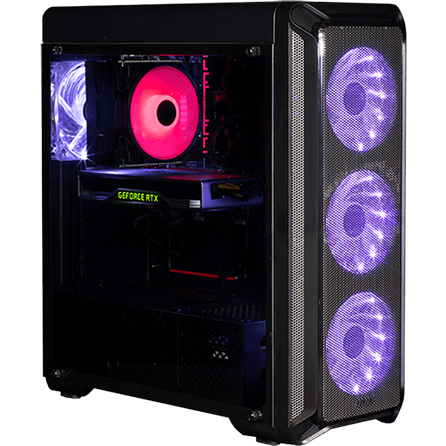
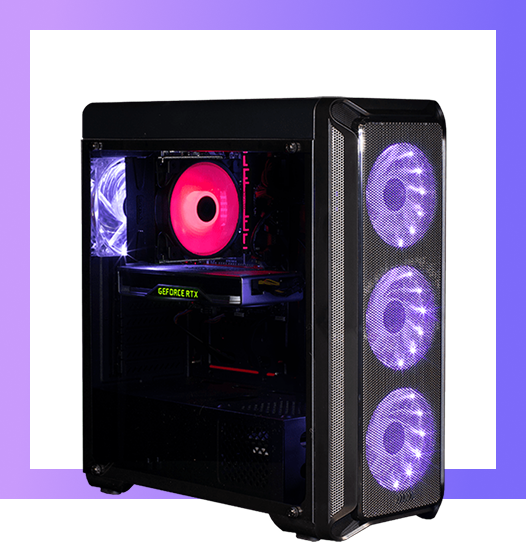
разметили вторую и третью секции

diff --git a/index.html b/index.html
@@ -56,6 +56,79 @@
           />
         </div>
       </section>
+
+      <section class="work">
+        <div class="container">
+          <div class="work__wrapper">
+            <div class="work__img">
+              <img src="img/image.png" alt="compic" />
+            </div>
+            <div class="work__description">
+              <h2 class="work__title title">Чем мы занимаемся</h2>
+              <p class="work__text">
+                Помогаем сэкономить до 40% стоимости игрового компьютера без
+                потери производительности. Подбираем мощные детали компьютера,
+                заказываем у своих поставщиков или напрямую у производителей,
+                чтобы сэкономить ваши деньги. Собираем мощный компьютер, на
+                котором можно играть в любые современные игры и заниматься
+                работой.
+              </p>
+            </div>
+          </div>
+        </div>
+      </section>
+
+      <section class="process">
+        <div class="container">
+          <div class="process__wrapper">
+            <div class="proccess__header">
+              <img
+                class="process__logo"
+                src="img/process.svg"
+                alt="process logo"
+              />
+              <h2 class="process__title title">Процесс работы</h2>
+            </div>
+            <p class="process__description">
+              Подробно рассказываем о том, как происходит сборка, от заявки до
+              выдачи вашего заказа
+            </p>
+            <div class="process__columns">
+              <div class="process__item">
+                <h3 class="process__work">Заявка</h3>
+                <p class="process__work-text">
+                  Мы получаем вашу заявку, связываемся с вами для уточнения
+                  деталей, чтобы понять ваши ожидания от будущего компьютера.
+                </p>
+              </div>
+              <div class="process__item">
+                <h3 class="process__work">Подбор</h3>
+                <p class="process__work-text">
+                  После оплаты подбираем комплектующие, которые дадут
+                  максимальную производительность. Заказываем их напрямую у
+                  поставщиков.
+                </p>
+              </div>
+              <div class="process__item">
+                <h3 class="process__work">Сборка</h3>
+                <p class="process__work-text">
+                  Собираем компьютер, проводим стартовую диагностику,
+                  устанавливаем операционную систему и необходимые драйверы для
+                  работы.
+                </p>
+              </div>
+              <div class="process__item">
+                <h3 class="process__work">Выдача</h3>
+                <p class="process__work-text">
+                  Отдаём компьютер вам в назначенный срок, проводим вместе
+                  тестирование, подписываем документы о выполнении работы и
+                  гарантии.
+                </p>
+              </div>
+            </div>
+          </div>
+        </div>
+      </section>
     </main>
   </body>
 </html>

diff --git a/css/style.css b/css/style.css
@@ -26,6 +26,7 @@ html,
 body {
   color: #ffffff;
   font-size: 62.5%;
+  font-family: "Roboto", sans-serif;
   font-weight: normal;
   background: #000000;
   background: linear-gradient(
@@ -73,7 +74,14 @@ h6 {
   border-radius: 5rem;
   padding: 1rem 3rem;
   font-size: 1.6rem;
+  line-height: 150%;
   color: #ffffff;
+}
+
+.title {
+  font-size: 4.8rem;
+  line-height: 140%;
+  font-weight: 700;
 }
 
 .header {
@@ -103,6 +111,7 @@ h6 {
 
 .header__nav a {
   font-size: 1.6rem;
+  line-height: 150%;
 }
 
 .header__logo {
@@ -123,12 +132,15 @@ h6 {
 .promo .container {
   position: relative;
   z-index: 2;
+  margin-bottom: 22.8rem;
 }
 
 .promo__title {
   max-width: 76rem;
   margin-bottom: 5rem;
   font-size: 6.4rem;
+  font-weight: 700;
+  line-height: 140%;
 }
 
 .promo__timer {
@@ -152,10 +164,13 @@ h6 {
 
 .timer__item-count {
   font-size: 3.6rem;
+  line-height: 140%;
+  font-weight: 700;
 }
 
 .timer__item-text {
   font-size: 1.6rem;
+  line-height: 140%;
   opacity: 0.4;
 }
 
@@ -168,4 +183,98 @@ h6 {
   top: 0;
   left: 0;
   z-index: 1;
+}
+
+.work {
+  padding-top: 20rem;
+  padding-bottom: 24.3rem;
+}
+
+.work__wrapper {
+  display: flex;
+}
+
+.work__img {
+  width: 52.6rem;
+  height: 54.2rem;
+  margin-right: 13.9rem;
+}
+
+.work__title {
+  margin-bottom: 4.5rem;
+  padding-top: 6.9rem;
+}
+
+.work__text {
+  font-size: 1.6rem;
+  line-height: 160%;
+  max-width: 63.6rem;
+}
+
+.process {
+  padding-bottom: 20rem;
+}
+
+.process__wrapper {
+  position: relative;
+}
+
+.proccess__header {
+  display: flex;
+  align-items: center;
+}
+
+.process__logo {
+  width: 12.7rem;
+  height: 12.7rem;
+  padding-right: 2rem;
+  position: relative;
+  left: -2.4rem;
+}
+
+.proccess__title {
+  margin-bottom: 4.9rem;
+}
+
+.process__description {
+  font-size: 1.6rem;
+  line-height: 160%;
+  max-width: 41.1rem;
+  opacity: 0.5;
+  margin-bottom: 8rem;
+}
+
+.process__columns {
+  display: flex;
+  justify-content: space-between;
+  flex-wrap: wrap;
+}
+
+.process__columns::after {
+  content: "";
+  display: block;
+  width: 130rem;
+  height: 0.2rem;
+  position: absolute;
+  top: 34rem;
+  left: 50%;
+  transform: translate(-50%, 0);
+  background: linear-gradient(142deg, #c89afc 0%, #7c6afa 100%);
+}
+
+.process__item {
+  max-width: 30.6rem;
+}
+
+.process__work {
+  font-size: 3.6rem;
+  line-height: 140%;
+  font-weight: 700;
+  margin-bottom: 6.5rem;
+}
+
+.process__work-text {
+  font-size: 1.4rem;
+  line-height: 160%;
+  opacity: 0.5;
 }
